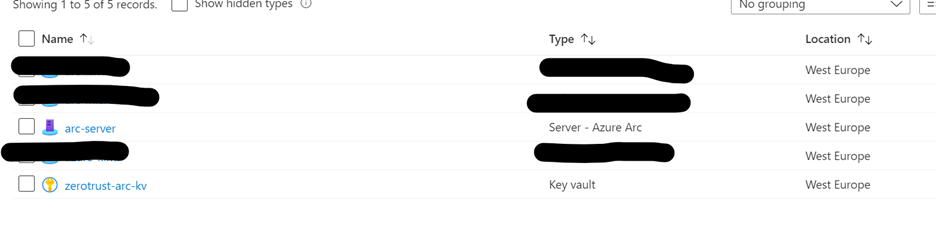
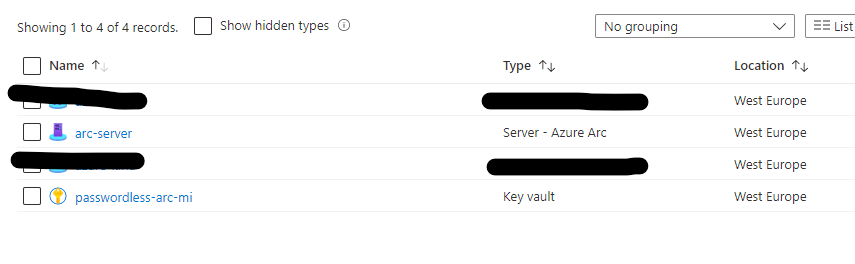
Change adjectives

diff --git a/code/access.py b/code/access.py
@@ -8,7 +8,7 @@ os.environ["IMDS_ENDPOINT"] = "http://localhost:40342"
 credentials = ManagedIdentityCredential()
 
 # Change the path to your actual KeyVault
-secret_client = SecretClient(vault_url="https://zerotrust-arc-kv.vault.azure.net", credential=credentials)
+secret_client = SecretClient(vault_url="https://passwordless-arc-mi.vault.azure.net", credential=credentials)
 # Change the name of the secret to your actual secret
 secret = secret_client.get_secret("my-onprem-secret")
 print("KeyVault secret is: " + secret.value)

diff --git a/azurearc-mi-vm.md b/azurearc-mi-vm.md
@@ -53,7 +53,7 @@ We will use a specific language (Python) and one operating system (Linux) to do 
 
 KeyVault, of course, is just an example and can be substituted with any Azure service.
 
-Our machine will be a Virtual Machine named `arc-server.lab` running on a local Proxmox (KVM) server, and will connect to Azure Cloud to our KeyVault named `zerotrust-arc-kv`.
+Our machine will be a Virtual Machine named `arc-server.lab` running on a local Proxmox (KVM) server, and will connect to Azure Cloud to our KeyVault named `passwordless-arc-mi`.
 
 We will also assume that this machine has already been onboarded to Arc by installing the agent on it [as per instructions](https://docs.microsoft.com/en-us/azure/azure-arc/servers/onboard-portal). The VM will be onboarded in Azure Arc with the name `arc-server`.
 
@@ -98,7 +98,7 @@ os.environ["IMDS_ENDPOINT"] = "http://localhost:40342"
 
 credentials = ManagedIdentityCredential()
 
-secret_client = SecretClient(vault_url="https://zerotrust-arc-kv.vault.azure.net", credential=credentials)
+secret_client = SecretClient(vault_url="https://passwordless-arc-mi.vault.azure.net", credential=credentials)
 secret = secret_client.get_secret("my-onprem-secret")
 print("KeyVault secret is: " + secret.value)
 ```
